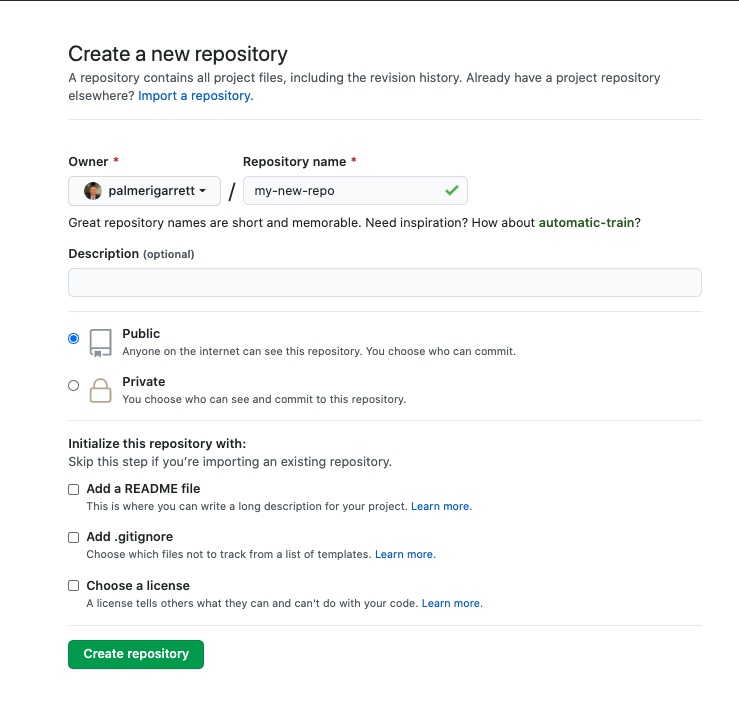
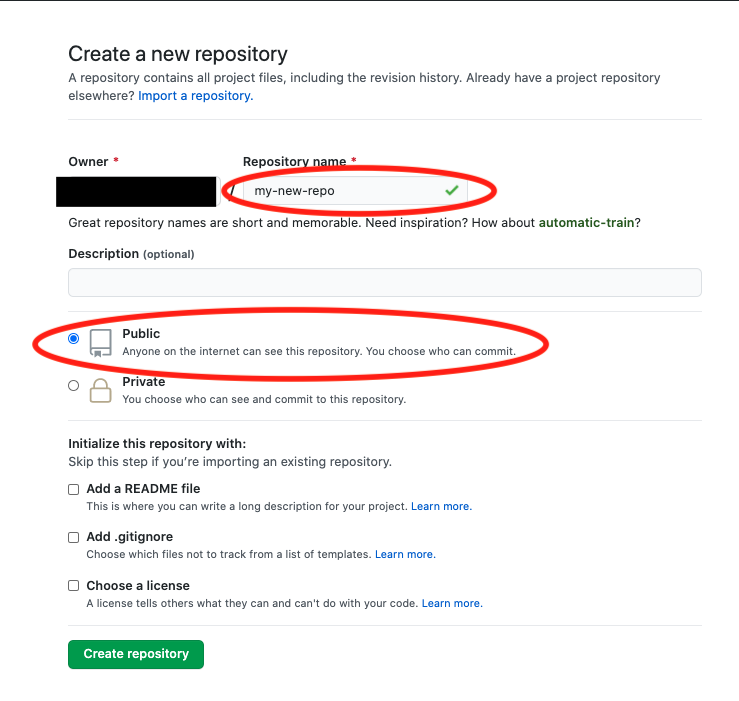
Creating new repo fixme

Changed region(s): [[0.0311, 0.4194, 0.747, 0.5692], [0.0622, 0.2097, 0.6847, 0.3295]]

diff --git a/lessons/students/7_environment_setup/pi_environment_setup.md b/lessons/students/7_environment_setup/pi_environment_setup.md
@@ -112,11 +112,47 @@ The programming folder will be used as the main location in which you save every
 
 <div ><h4>Creating a New Repository</h4></div>
 
-## FIXME: Add steps to create a repo in Github (login to Github, click "+" followed by new repository, name the repository, no README initialized, continue to next steps once youre on the page of your empty repo).
+Here we are going to create a new Github repository. Navigate to your Github homepage. This can be found at github.com/[YOUR-USERNAME].
+Once there, click on "Repositories" as shown in the image below:
+
+<div class=mdImage align=center>
+    <img src="./images/1_github_home.png" width="500" height="auto" />
+</div>
+
+
+Next, click the green button labeled "New".
+
+<div class=mdImage align=center>
+    <img src="./images/2_repos.png" width="500" height="auto" />
+</div>
+
+Here, we will decide on a repository name. Go ahead and name your repository "python-work" (in place of "my-new-repo" in the below picture.)
+We will also be keeping the repositories public. You want to keep repositories public so they can eventually be used for future employers to look at.
+
+<div class=mdImage align=center>
+    <img src="./images/4_new_repo.png" width="500" height="auto" />
+</div>
+
+After doing so, click "Create Repository" at the bottom of the page. GO ahead and move on to configuring your repository on your local machine.
 
 <div ><h4>Configuring a Repository</h4></div>
 
 ## FIXME: Add steps to copy/paste the code block from new repo, go through logging into GH from the command line.
+
+After completing the previous section, you should see a screen similar to below. Click the clipboard icon to copy the code
+
+<div class=mdImage align=center>
+    <img src="./images/14_create_repo_cli.png" width="500" height="auto" />
+</div>
+
+Click the circled clipboard icon to copy the commands to create the local repository on your Pi. Before exectuing the commands:
+
+- Check your working directory with `pwd`. It should be your programming folder
+- If you need to change directories, you can use `cd`
+- If you are in the root folder and need to create the "programming" folder, use `mkdir programming`
+
+When you know you are in the right working directory, go ahead and paste those commands into your terminal.
+
 
 <div ><h5>Error Handling</h5></div>
 
